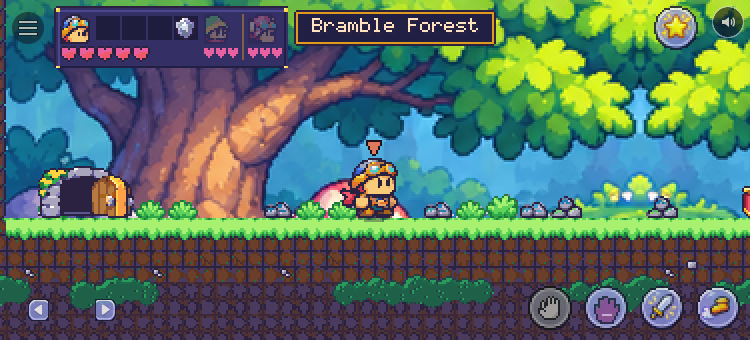
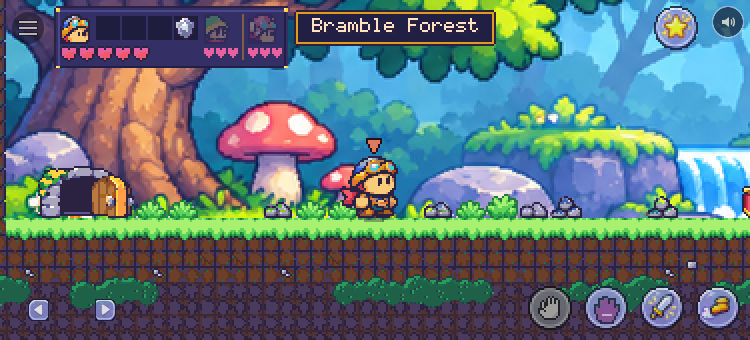
Biome backgrounds: the forest's shots retaken against the whole waterfall panorama (the Step 15 lead's ask); notes say it is live
Documents only. road, trail-start, trail-gap, guarded-spot at 844x390, 750x340, 390x664 by
tools/scenario-bots/shots.mjs on a local build of 137bcaa. No seam across the trail; a flat
green sky band shows above the panorama at the top of the trail (noted in step-8.md).

Claude-Session: https://claude.ai/code/session_017WiGzGQptGtgXJLtKXBbKC

diff --git a/docs/plan/step-8.md b/docs/plan/step-8.md
@@ -529,4 +529,6 @@ The owner, 2026-11-24 ~14:50 UTC: "Some new biome backgrounds getting added to t
 
 **Sync flag (not mine to change, `tools/drive_sync.py`):** BKG-02's complete-package ZIP was unpacked (21 MB) because 15 left/right previews exist only in it, so its every other file is now mirrored twice; and the six 1.7-2.5 MB `source/` originals are mirrored, since the 1 MB rule covers ZIP contents only. 33 MB in history nothing loads.
 
+Live at 137bcaa (`check:deployed` ok, `/debug/errors` empty after it; check re-run on the pushed commit, ok; e2e 140 ok on the base before the last two rebases, which brought only Step 15's forest rows and docs). The Step 15 lead's asks: no seam across the trail at 0.35 (the whole panorama has no mirrored half), `content/decor/forest-trail.json` untouched, and `docs/plan/step-15-shots/` road, trail-start, trail-gap and guarded-spot retaken with `tools/scenario-bots/shots.mjs` after the push.
+
 Shots: `docs/plan/step-8-shots/backgrounds/<room>-1-<before|after>-<size>.png` at 390x664, 844x390, 750x340, and `<room>-2-...-844x390.png` at the room's other end (256-colour, taken with `tools/art/backgrounds/shots.mjs`; the before shots are today's `main` without this change).
